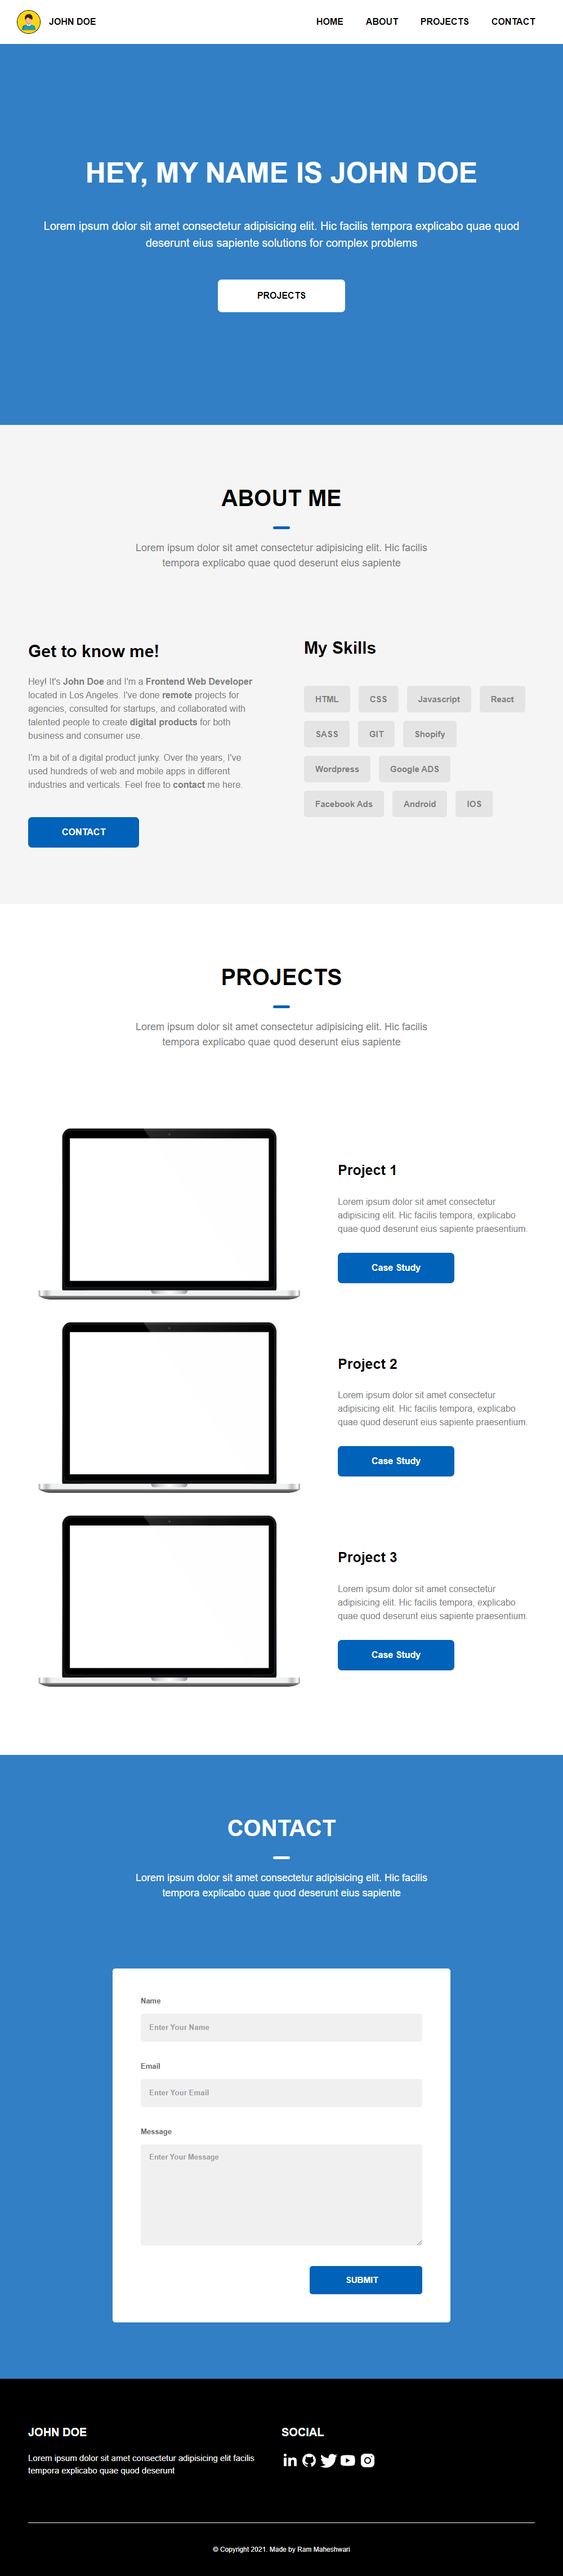
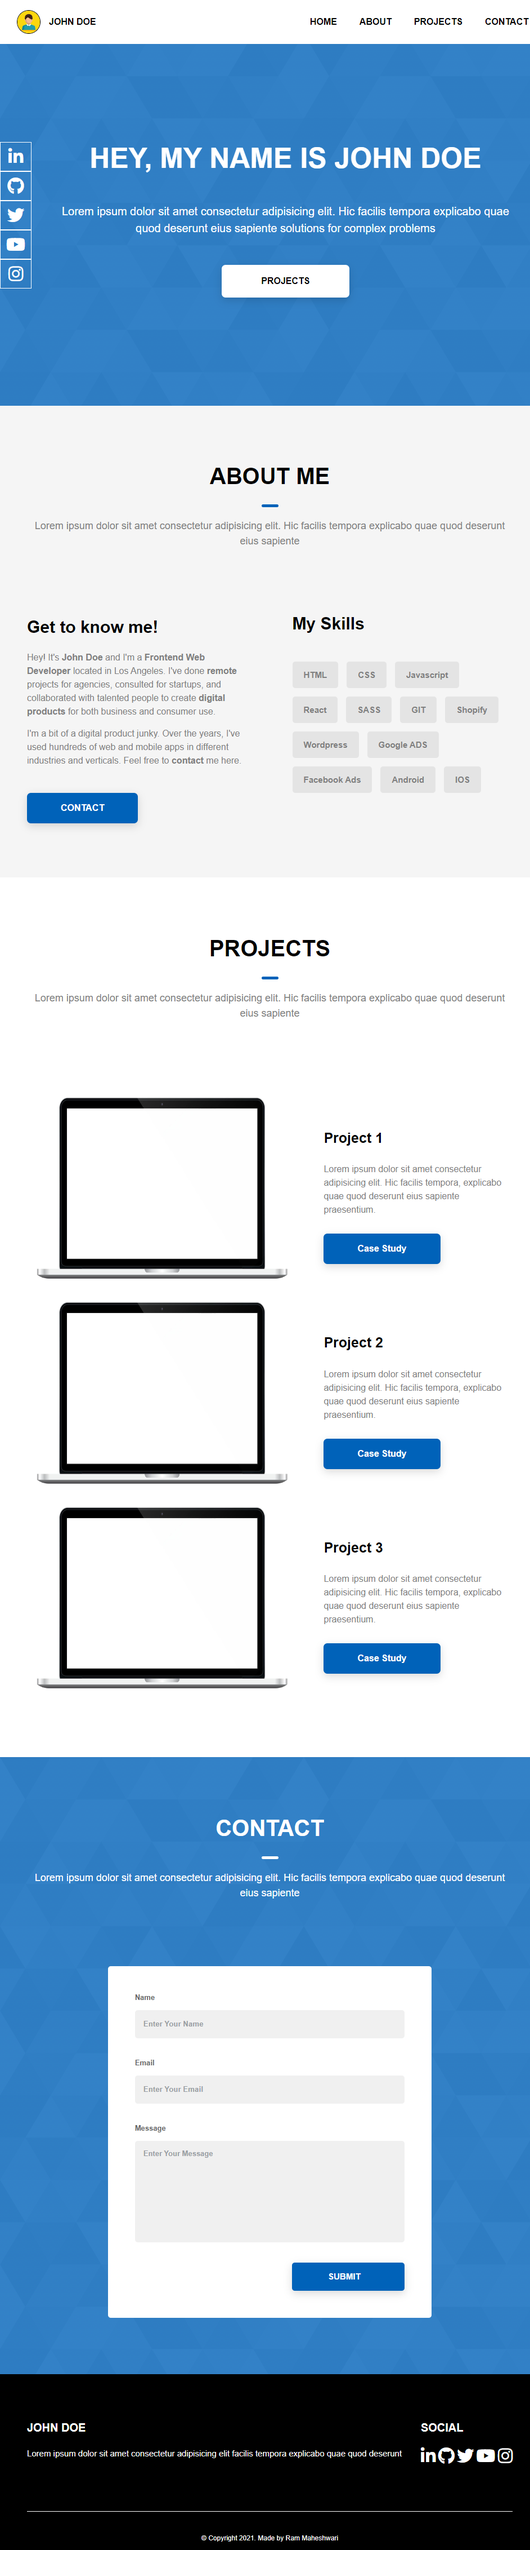
Atualiza versão

diff --git a/styles/index.css b/styles/index.css
@@ -2,11 +2,16 @@
   margin: 0px;
   padding: 0px;
   list-style: none;
+  /*overflow-x: hidden;*/
 }
+/*2 rem = 16px --> ele se adequa a quantidade de ao valor em px de alguma propriedade*/
 /*Cabeçalho*/
 a {
   text-decoration: none;
   color: inherit;
+}
+html{
+  scroll-behavior: smooth;
 }
 
 body {
@@ -22,15 +27,22 @@ header {
   justify-content: space-between;
   padding: 0px 30px;
   font-weight: 700;
+  position: fixed;
+  width: 100%;
+  background-color: white;
 }
 
 nav>ul {
   display: flex;
+  margin-right: 30px;
 }
 
 nav>ul>li>a {
   display: block;
   padding: 30px 20px;
+}
+nav>ul>li>a:hover{
+  color: #0062b9;
 }
 
 header>.header-info {
@@ -48,8 +60,14 @@ header .avatar-img {
 }
 
 /*seção home*/
-#secao-home{
-  background-color: rgb(50,127,197);  
+#secao-home{ 
+  margin-top: 60px;
+  background:linear-gradient(to right, rgba(0,98,185,0.8), rgba(0,98,185,0.8)),url(../assets/common-bg.svg);
+  display: flex;
+  flex-direction: row-reverse;
+
+}
+.home-apresentacao{
   padding: 20% 5%;
   text-align: center;  
   display: grid;
@@ -57,14 +75,14 @@ header .avatar-img {
   row-gap: 50px;
   color: white;
 }
-#secao-home > h1{
+
+.home-apresentacao > h1{
   font-size: 50px;  
 }
-#secao-home > p{
+.home-apresentacao > p{
   font-size: 20px;
   line-height: 1.5;
 }
-
 
 .btn-projetos{
   display: flex;
@@ -76,6 +94,27 @@ header .avatar-img {
   padding: 20px 70px;
   border-radius: 7px;
   font-weight: 700;
+  box-shadow: 0 5px 15px 0 rgba(0,0,0,0.15);
+}
+.btn-projetos > a:hover{
+  transform: translateY(-5px);
+}
+
+.home-redes{
+  padding: 20% 0;
+}
+.home-redes i{
+  font-size: 30px;
+  text-align: center;
+  border: 1px solid white;
+  color: white;
+  padding: 10px;
+  display: flex;
+  flex-direction: column;
+
+}
+.home-redes i:hover{
+  background-color: rgba(255, 255, 255, 0.2);
 }
 
 /*Seção sobre mim*/
@@ -101,7 +140,7 @@ header .avatar-img {
   background-color:  #0062b9;
 }
 .introducao >p{
-  margin: 20px 18%;
+  margin: 20px 0;
   color: #808080;
   font-size: 18px;
 }
@@ -127,7 +166,8 @@ header .avatar-img {
 /*Botão padrão nas seções sobre mim e projetos*/
 .btn-padrao{
   display: flex;
-  justify-content: start;
+  /* justify-content: start; */
+  align-self: flex-start;
 }
 .btn-padrao > a{
   background-color: #0062b9;
@@ -136,6 +176,10 @@ header .avatar-img {
   padding: 15px 60px;
   border-radius: 7px;
   font-weight: 700;
+  box-shadow: 0 5px 15px 0 rgba(0,0,0,0.15);
+}
+.btn-padrao > a:hover{
+  transform: translateY(-5px);
 }
 .habilidades{
   margin-left: 40px;
@@ -174,6 +218,7 @@ header .avatar-img {
 }
 .descricao-projeto{
   margin: 5%;
+  width: 50%;
   line-height: 1.5;
 }
 .descricao-projeto > h3{
@@ -185,7 +230,7 @@ header .avatar-img {
 }
 /*Seção contato*/
 #secao-contato{
-  background-color: rgb(50,127,197);
+  background:linear-gradient(to right, rgba(0,98,185,0.8), rgba(0,98,185,0.8)),url(../assets/common-bg.svg);
   padding-bottom: 100px;
 }
 /*Mudança nas cores da primeira div (classe introducao)*/
@@ -235,6 +280,7 @@ header .avatar-img {
   border: none;
   border-radius: 5px;
   padding: 15px;
+  resize: none;
 }
 #btn-enviar{
   align-self: flex-end;
@@ -245,6 +291,10 @@ header .avatar-img {
   background-color: #0062b9 !important;
   color: white;
   font-size: 15px;
+  box-shadow: 0 5px 15px 0 rgba(0,0,0,0.15);
+}
+#btn-enviar:hover{
+  transform: translateY(-5px);
 }
 /*Rodapé*/
 footer{
@@ -269,9 +319,11 @@ footer > p{
   margin: 80px 5%;
   line-height: 1.5;
 }
+/*
+O QUE ESTAVA CAUSANDO O PROBLEMA
 .rodape-info > div{
   width: 500px;
-}
+}*/
 .rodape-info > div > h3{
   margin-bottom: 20px;
   font-size: 20px;
@@ -279,6 +331,66 @@ footer > p{
 .rodape-info > div > p{
   font-size: 15px;
 }
-.rodape-info img{
-  width: 30px;
+.rodape-info i{
+  font-size: 30px;
+}
+/*Para tablets 768px*/
+@media (max-width: 768px) {
+  /*Cabeçalho*/
+  nav{
+    display: none;
+  }
+  .header-info{
+    padding: 20px 0;
+  }
+  
+  /*Seção home*/
+  .home-redes{
+    display: none;
+  }
+  /*Seção sobre mim*/
+  .mais-sobre{
+    display: flex;
+    flex-direction: column;
+  }
+  .conheca{
+    margin-bottom: 50px;
+  }
+  .habilidades{
+    margin-left: 0;
+  }
+  /*Seção projetos*/
+  .projeto{
+    display: flex;
+    flex-direction: column;
+    align-items: center;
+    margin: 0;
+    margin-bottom: 20px;
+    padding: 0;
+    text-align: center;
+  }
+  .descricao-projeto{
+    display: flex;
+    flex-direction: column;
+  }
+  .projeto img{
+    width: 90%;
+    margin-left: 0;
+  }
+  .projeto .btn-padrao{
+    /* margin: 0 20%; */
+    align-self: center;
+  }
+  /*Seção contatos*/
+  #secao-contato form{
+    margin: 0 5%;
+  } 
+  /*Rodapé*/
+  .rodape-info{
+    display: flex;
+    flex-direction: column;
+  }
+  .rodape-info >div >p {
+    margin-bottom: 30px;
+  }
 }

diff --git a/index.html b/index.html
@@ -5,6 +5,8 @@
   <meta charset="UTF-8">
   <meta name="viewport" content="width=device-width, initial-scale=1.0">
   <link rel="stylesheet" href="./styles/index.css">
+  <!-- Link para a utilização dos icones-->
+  <link rel="stylesheet" href="https://cdnjs.cloudflare.com/ajax/libs/font-awesome/5.15.4/css/all.min.css" integrity="sha512-1ycn6IcaQQ40/MKBW2W4Rhis/DbILU74C1vSrLJxCq57o941Ym01SwNsOMqvEBFlcgUa6xLiPY/NS5R+E6ztJQ==" crossorigin="anonymous" referrerpolicy="no-referrer" />
   <title>Document</title>
 </head>
 
@@ -28,9 +30,17 @@
   </header>
   <main>
     <section id="secao-home"> 
-      <h1>HEY, MY NAME IS JOHN DOE</h1>
-      <p>Lorem ipsum dolor sit amet consectetur adipisicing elit. Hic facilis tempora explicabo quae quod deserunt eius sapiente solutions for complex problems</p>
-      <div class="btn-projetos"><a href="">PROJECTS</a></div>
+      <div class="home-apresentacao">
+        <h1>HEY, MY NAME IS JOHN DOE</h1>
+        <p>Lorem ipsum dolor sit amet consectetur adipisicing elit. Hic facilis tempora explicabo quae quod deserunt eius sapiente solutions for complex problems</p>
+        <div class="btn-projetos"><a href="#secao-projetos">PROJECTS</a></div>      </div>
+      <div class="home-redes">
+        <a href="#"><i class="fab fa-linkedin-in"></i></a>
+        <a href="#"><i class="fab fa-github"></i></a>
+        <a href="#"><i class="fab fa-twitter"></i></a>
+        <a href="#"><i class="fab fa-youtube"></i></i></a>
+        <a href="#"><i class="fab fa-instagram"></i></a>
+      </div>
     </section>
     <section id="secao-sobre">
       <div class="introducao">
@@ -43,7 +53,7 @@
           <h3>Get to know me!</h3>
           <p>Hey! It's <strong>John Doe</strong> and I'm a <strong>Frontend Web Developer</strong> located in Los Angeles. I've done <strong>remote</strong> projects for agencies, consulted for startups, and collaborated with talented people to create <strong>digital products</strong> for both business and consumer use.</p>
           <p>I'm a bit of a digital product junky. Over the years, I've used hundreds of web and mobile apps in different industries and verticals. Feel free to <strong>contact</strong> me here.</p>
-          <div class="btn-padrao"><a href="">CONTACT</a></div>
+          <div class="btn-padrao"><a href="#secao-contato">CONTACT</a></div>
         </div>
         <div class="habilidades">
           <h3>My Skills</h3>
@@ -124,11 +134,11 @@
       <div>
         <h3>SOCIAL</h3>
         <div>
-          <a href="#"><img src="./assets/linkedin-ico.png" alt="Logo LinkedIn"></a>
-          <a href="#"><img src="./assets/github-ico.png" alt="Logo GitHub"></a>
-          <a href="#"><img src="./assets/twitter-ico.png" alt="Logo Twitter"></a>
-          <a href="#"><img src="./assets/yt-ico.png" alt="Logo YouTube"></a>
-          <a href="#"><img src="./assets/insta-ico.png" alt="Logo Instagram"></a>
+          <a href="#"><i class="fab fa-linkedin-in"></i></a>
+          <a href="#"><i class="fab fa-github"></i></a>
+          <a href="#"><i class="fab fa-twitter"></i></a>
+          <a href="#"><i class="fab fa-youtube"></i></i></a>
+          <a href="#"><i class="fab fa-instagram"></i></a>
         </div>
       </div>
     </div>

diff --git a/README.md b/README.md
@@ -5,3 +5,4 @@ Este projeto implementa um site âncora baseado em um modelo de portfólio
 - [HTML](https://developer.mozilla.org/en-US/docs/Web/HTML "HTML")
 - [CSS Grid](https://developer.mozilla.org/en-US/docs/Learn/CSS/CSS_layout/Grids "CSS Grid")
 - [CSS Flexbox](https://developer.mozilla.org/en-US/docs/Learn/CSS/CSS_layout/Flexbox "CSS Flexbox")
+- [Media Queries](https://developer.mozilla.org/en-US/docs/Learn/CSS/CSS_layout/Media_queries "Media Queries")
